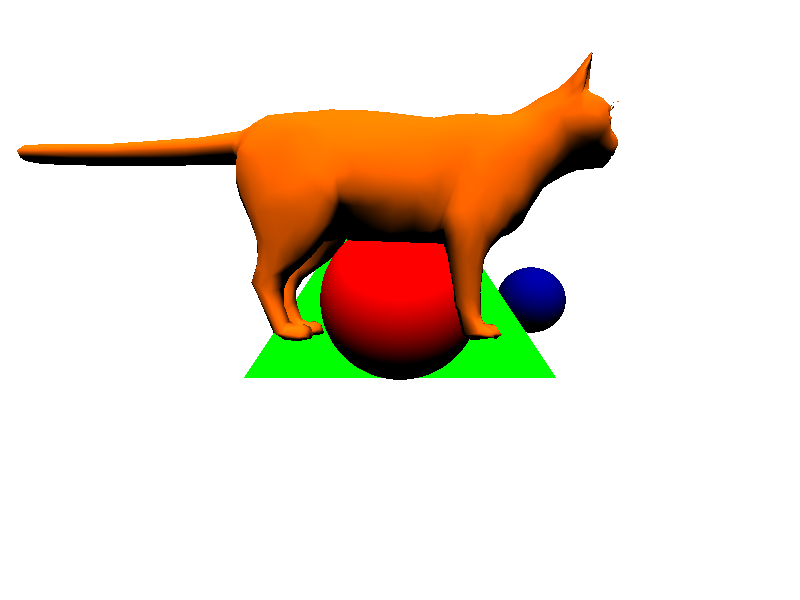
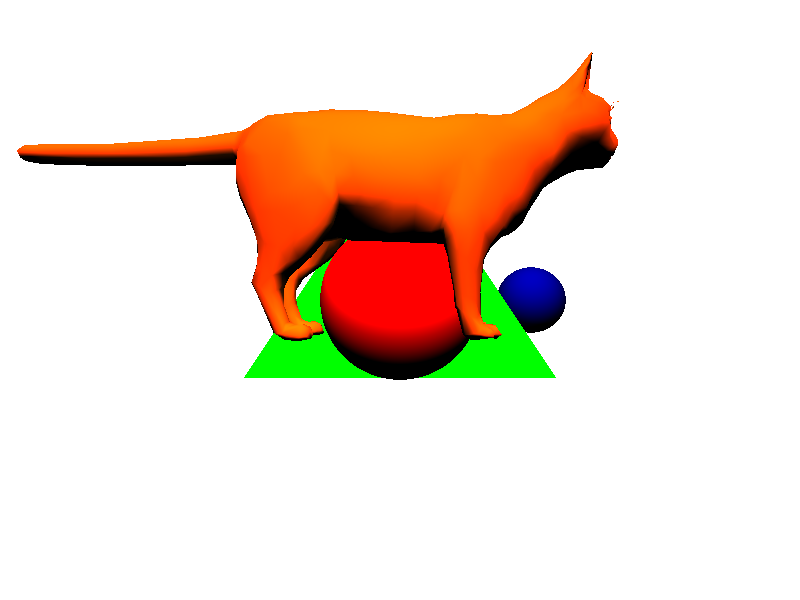
raytracer v0.6
point light

Changed region(s): [[0.0, 0.09, 0.7812, 0.6]]

diff --git a/Raytracer/raytracer/src/Raytracer.java b/Raytracer/raytracer/src/Raytracer.java
@@ -65,6 +65,28 @@ public class Raytracer {
         );
         scene.addObject(reader.getObj());*/
 
+        // Create lights
+        // Directional light 1
+        scene.addLight(new DirectionalLight(
+                new Vector3D(0, 1, 1),
+                new int[]{255, 255, 255},
+                1.0
+        ));
+
+        // Directional light 2
+        scene.addLight(new DirectionalLight(
+                new Vector3D(0, 2, 2),
+                new int[]{255, 0, 0},
+                1.0
+        ));
+
+        // Point light
+        scene.addLight(new PointLight(
+                new Vector3D(0, 2, -3),
+                new int[]{200, 200, 255},      // slightly bluish
+                0.6
+        ));
+
         // Create camera
         // Camera is at origin (0, 0, 0) looking towards -Z
         Camera camera = new Camera(
@@ -109,16 +131,37 @@ public class Raytracer {
                 int rgb;
                 if (intersection != null) {
                     Object3D hitObject = intersection.getObject();
-                    Vector3D normal = intersection.getNormal(); // Asegúrate de tener el getter en Intersection
+                    Vector3D normal = intersection.getNormal(); // already flat or interpolated (Phong)
 
-                    // Light data
-                    Vector3D Light = new Vector3D(0, 1, 1);
-                    Light.normalize();
-                    int[] Lc = {255, 255, 255}; // Light's color
-                    double Li = 1.0;            // Max intensity
+                    // Calculate hit point O + t*D
+                    Vector3D hitPoint = ray.getCamera().add(
+                            ray.getDirection().multiply(intersection.getDistance())
+                    );
 
-                    int[] color = hitObject.DiffuseShading(Light, Lc, Li, normal);
-                    rgb = (color[0] << 16) | (color[1] << 8) | color[2];
+                    int[] objColor = hitObject.getColor();
+
+                    // Accumulate lighting from all lights
+                    double r = 0, g = 0, b = 0;
+                    for (Light light : scene.getLights()) {
+                        Vector3D lightDir = light.getDirection(hitPoint);
+
+                        // Lambertian diffuse: max(0, N·L)
+                        double angle = Math.max(0, normal.point(lightDir));
+
+                        // Lc * Oc * Li * angle
+                        int[] Lc = light.getColor();
+                        double Li = light.getIntensity();
+                        r += (Lc[0] / 255.0) * (objColor[0] / 255.0) * Li * angle * 255;
+                        g += (Lc[1] / 255.0) * (objColor[1] / 255.0) * Li * angle * 255;
+                        b += (Lc[2] / 255.0) * (objColor[2] / 255.0) * Li * angle * 255;
+                    }
+
+                    // Clamp to [0, 255]
+                    int rr = (int) Math.min(r, 255);
+                    int gg = (int) Math.min(g, 255);
+                    int bb = (int) Math.min(b, 255);
+
+                    rgb = (rr << 16) | (gg << 8) | bb;
                 } else {
                     // Ray didn't hit anything --> background color (white)
                     rgb = 0xFFFFFF;

diff --git a/Raytracer/raytracer/src/Light.java b/Raytracer/raytracer/src/Light.java
@@ -1,16 +1,20 @@
-public class Light {
-    private Vector3D direction;
-    private int[] color;    //Lc
-    private double intensity;   //Li
+public abstract class Light {
+    protected int[] color;    //Lc
+    protected double intensity;   //Li
 
-    public Light(Vector3D direction, int[] color, double intensity){
-        this.direction = direction;
-        direction.normalize();
+    public Light(int[] color, double intensity) {
         this.color = color;
         this.intensity = intensity;
     }
 
-    public Vector3D getDirection(){return direction;}
-    public int[] getColor(){return color;}
-    public double getIntensity(){return intensity;}
+    // Returns the normalized direction FROM the hit point TOWARDS the light
+    public abstract Vector3D getDirection(Vector3D hitPoint);
+
+    public int[] getColor() {
+        return color;
+    }
+
+    public double getIntensity() {
+        return intensity;
+    }
 }

diff --git a/Raytracer/raytracer/src/PointLight.java b/Raytracer/raytracer/src/PointLight.java
@@ -1,0 +1,14 @@
+public class PointLight extends Light {
+    private Vector3D position;
+
+    public PointLight(Vector3D position, int[] color, double intensity) {
+        super(color, intensity);
+        this.position = position;
+    }
+
+    @Override
+    public Vector3D getDirection(Vector3D hitPoint) {
+        // Vector from hitPoint TO the light
+        return Vector3D.L(position, hitPoint).normalize();
+    }
+}

diff --git a/Raytracer/raytracer/src/DirectionalLight.java b/Raytracer/raytracer/src/DirectionalLight.java
@@ -1,0 +1,13 @@
+public class DirectionalLight extends Light {
+    private Vector3D direction;
+
+    public DirectionalLight(Vector3D direction, int[] color, double intensity) {
+        super(color, intensity);
+        this.direction = direction.normalize(); // we store it already normalized
+    }
+
+    @Override
+    public Vector3D getDirection(Vector3D hitPoint) {
+        return direction; // constant direction, no matter the hit point
+    }
+}

diff --git a/Raytracer/raytracer/src/Scene.java b/Raytracer/raytracer/src/Scene.java
@@ -3,14 +3,21 @@ import java.util.List;
 
 public class Scene {
     private List<Object3D> objects;
+    private List<Light> lights; // BOMBOCLAT! now we support multiple lights
 
     public Scene() {
         this.objects = new ArrayList<>();
+        this.lights = new ArrayList<>();
     }
 
     // Add an object to the scene
     public void addObject(Object3D object) {
         this.objects.add(object);
+    }
+
+    // Add a light to the scene
+    public void addLight(Light light) {
+        this.lights.add(light);
     }
 
     // Find the closest intersection with any object in the scene
@@ -37,5 +44,9 @@ public class Scene {
 
     public List<Object3D> getObjects() {
         return objects;
+    }
+
+    public List<Light> getLights() {
+        return lights;
     }
 }

diff --git a/Raytracer/raytracer/src/OBJreader.java b/Raytracer/raytracer/src/OBJreader.java
@@ -12,13 +12,6 @@ public class OBJreader {
     public ArrayList<Integer> faceSmoothGroups = new ArrayList<>();
     private Obj obj; // we save the created object
 
-    /* Constructor with no transformation (the obj as it is)
-    public OBJreader(String filename, int[] color) {
-        verticesReader(filename); // we gather all the file's vertices
-        instructionReader(filename); // we gather the instructions to build the object's faces
-        obj = objBuilder(vertices, id, color);
-    }*/
-
     // Constructor with transformations
     public OBJreader(String filename, int[] color, double scale, double translateX, double translateY, double translateZ) {
         readObj(filename);

diff --git a/Raytracer/raytracer/src/Triangle.java b/Raytracer/raytracer/src/Triangle.java
@@ -53,7 +53,7 @@ public class Triangle extends Object3D {
     @Override
     public int[] DiffuseShading(Vector3D rayDirection, int[] color, double rayIntensity, Vector3D normal) {
         //We calculate the ray's direction... let us remember that cos(theta) = N (triangle's normal) dot L (rayDirection)
-        // we use the normal passed as parameter -> important for Phong!
+        // Now using the normal passed as parameter (not this.normal) -> important for Phong!
         double angle = Math.max(0, normal.point(rayDirection)); // by using max(0, etc) we're outting all possible negative values
 
         // We apply the lambertian surface formula for flat shading --> Lc * Oc * Li * Angle